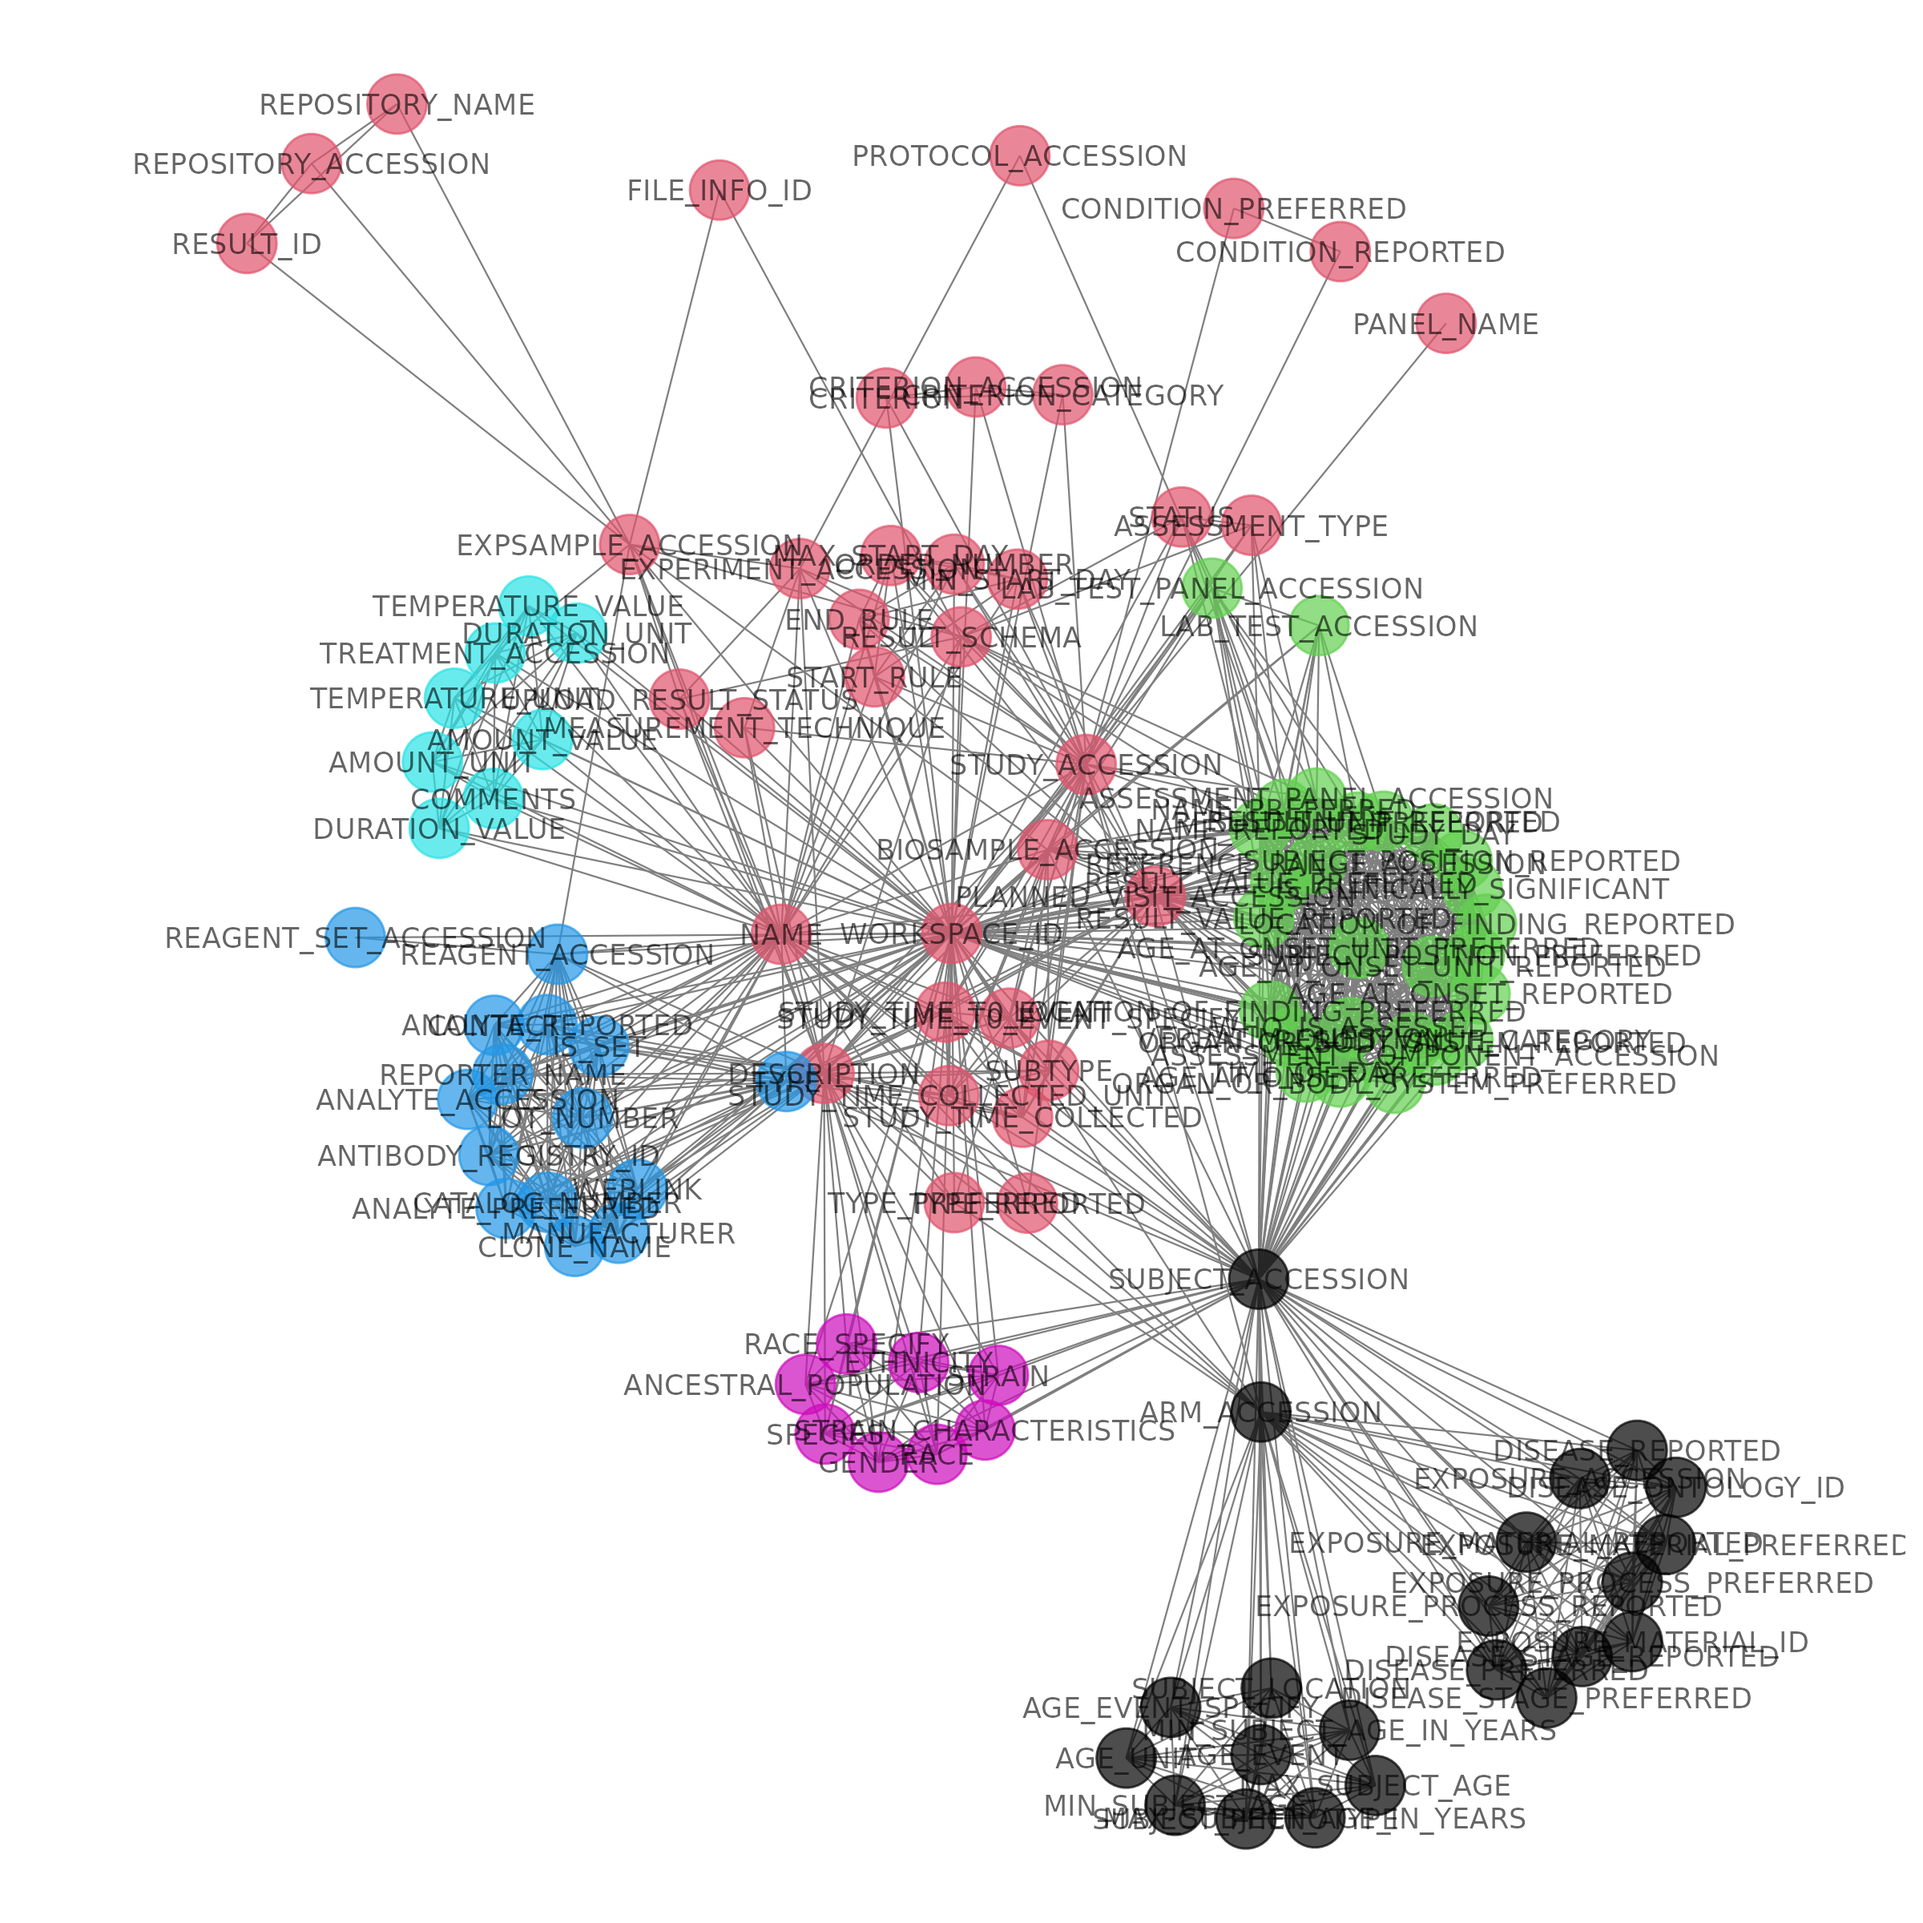
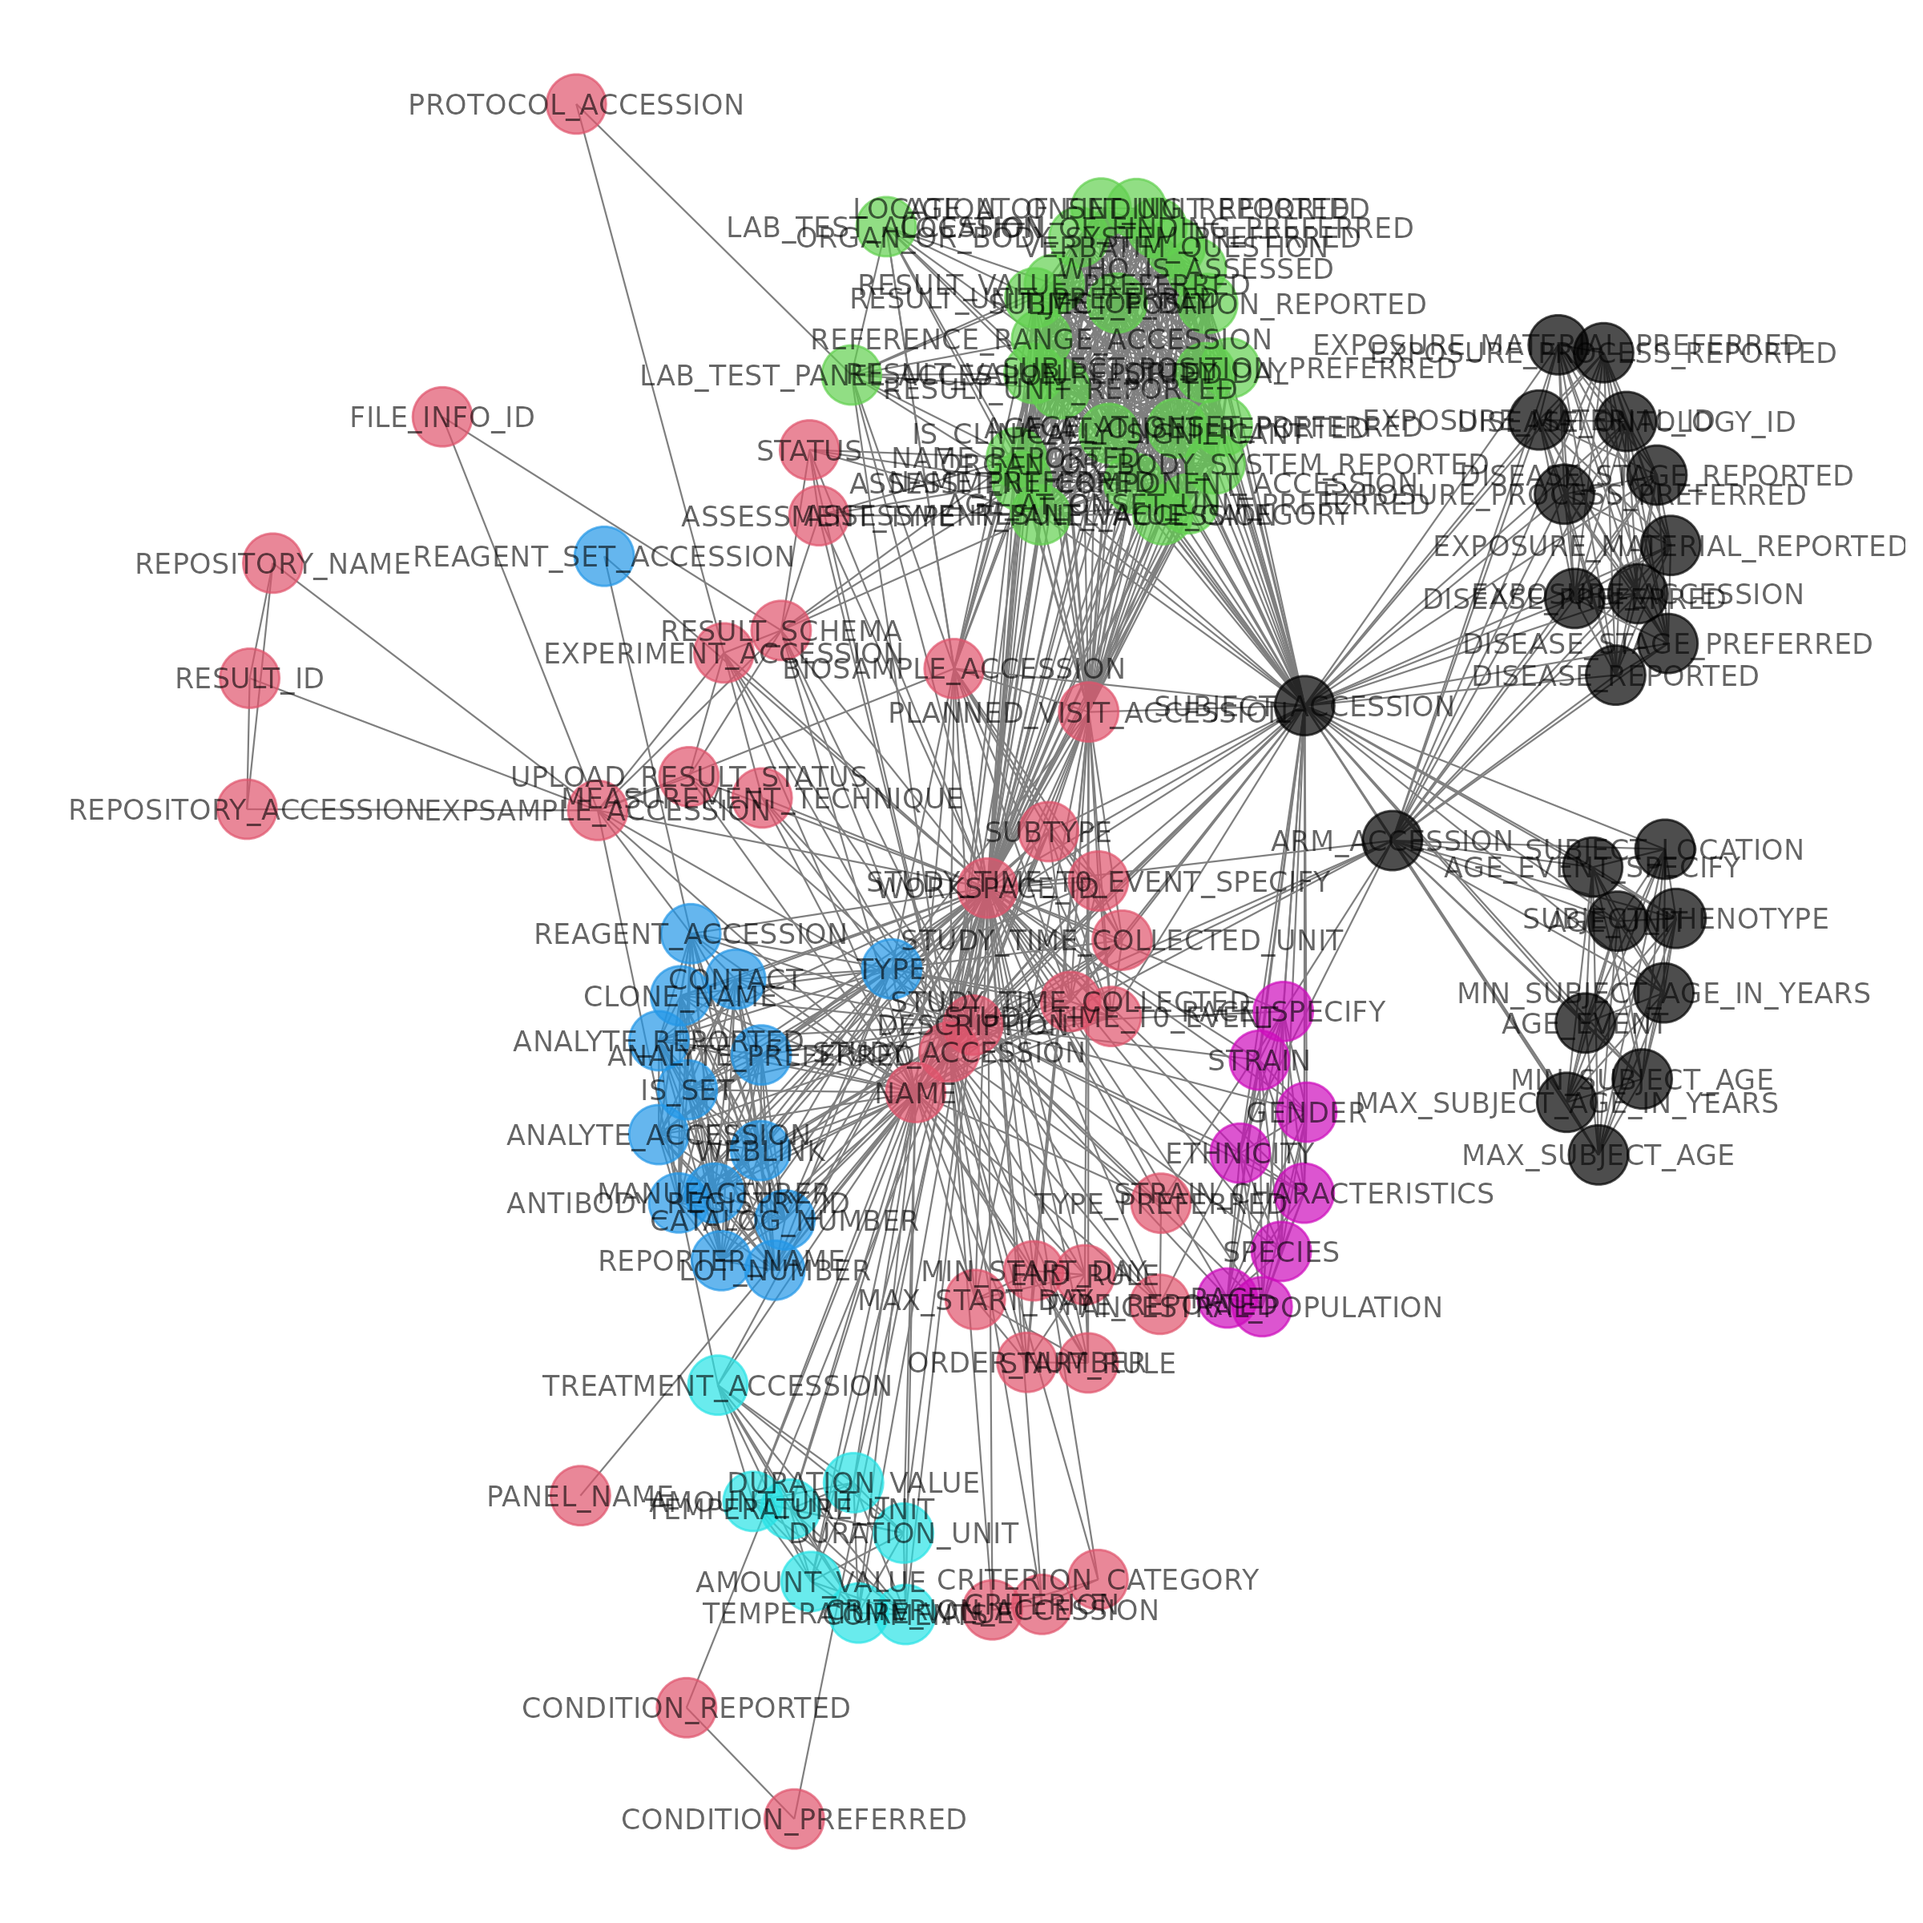
more work on pulling data using graph

Changed region(s): [[0.0312, 0.0312, 0.9688, 0.9688], [0.2812, 0.875, 0.5, 0.9688], [0.1875, 0.1875, 0.2812, 0.25]]

diff --git a/notes.md b/notes.md
@@ -13,9 +13,9 @@ https://co-connect.ac.uk/docs/
 ## next steps
 - set up git repo ✓
 - familiarise with git commits/merges ✓
-- look at the data files 
-  - decide how best to merge/analyse the data
-  - work out how to import into R and merge
+- look at the data files ✓
+  - decide how best to merge/analyse the data ←
+  - work out how to import into R and merge ←
 
 ## data
 - SDY180
@@ -63,6 +63,14 @@ why do this:
 ## challenges of this challenge
 - missing data
 - types of data
+  - many tables of connected variables
+  - can connect them using graphs
+  - but some of these connections may not make sense (i.e. NA columns)
+  - need to interpret a column to see whether we can join on that or not
+  - not an obvious heuristic to do this
+    - factor levels > 1
+    - ending in `ACCESSION`
+  - need to have a think about how we know whether a join makes sense or not
 - data standardisation
 
 ## challenges of this in general
